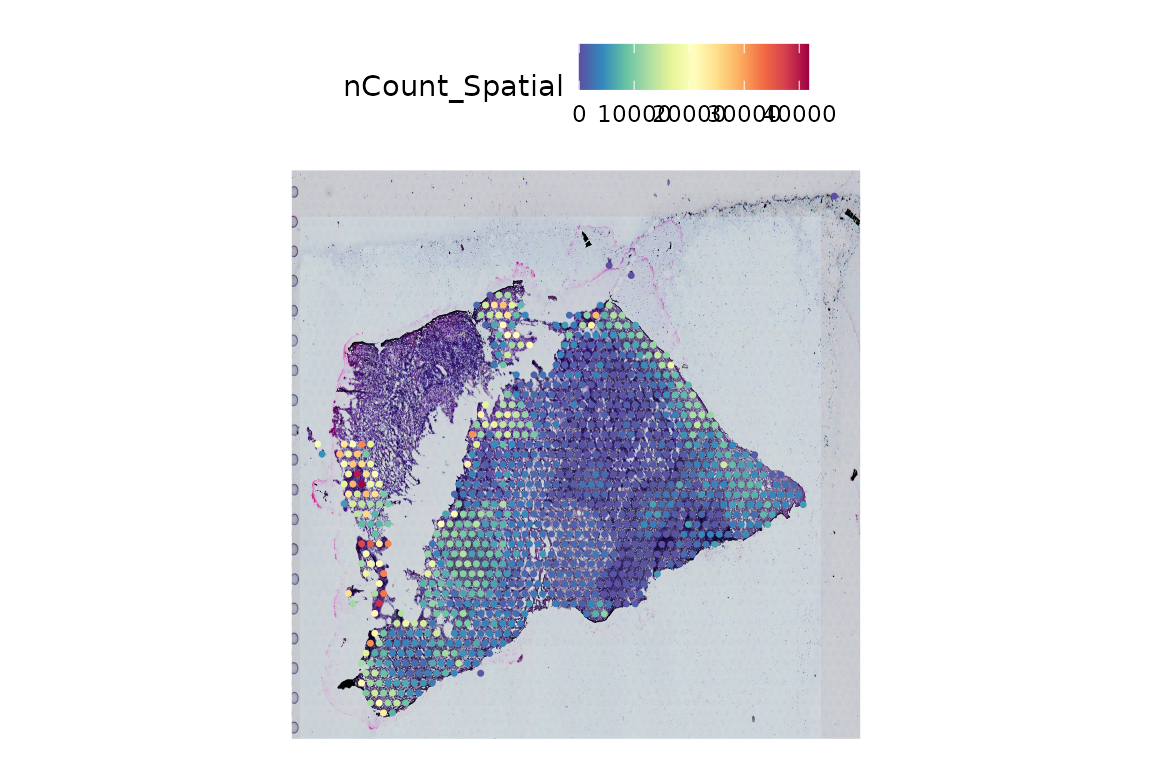
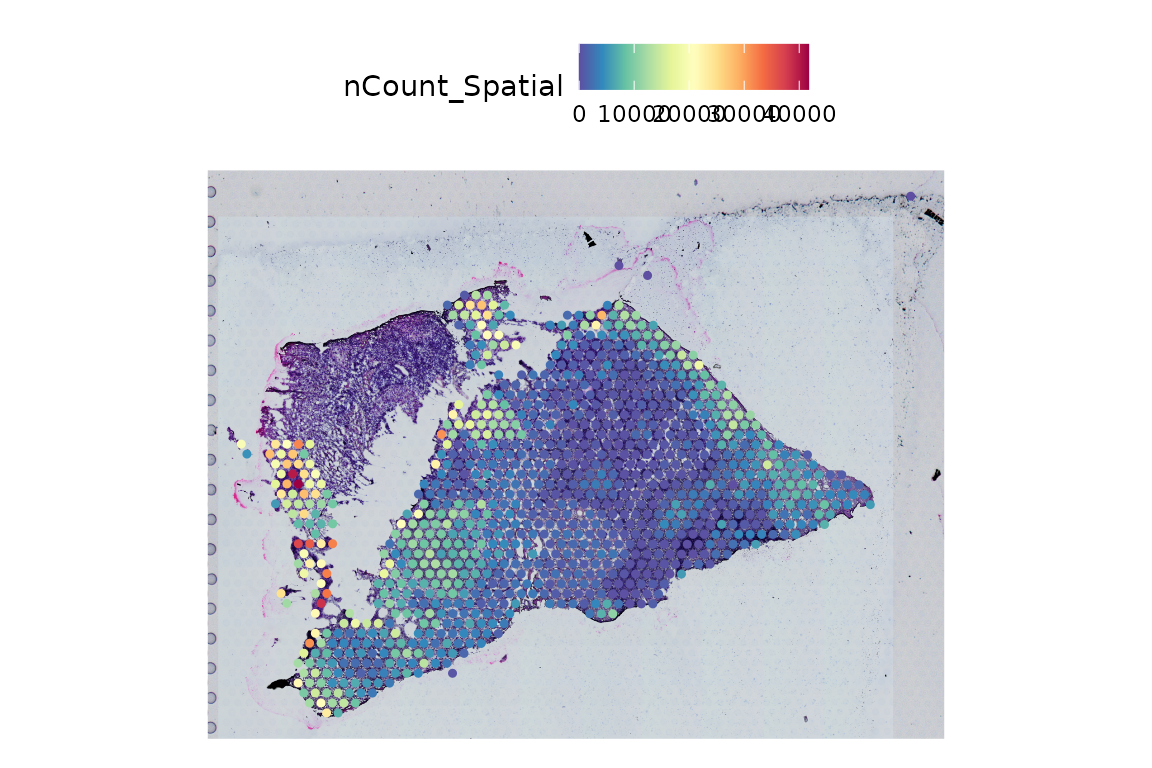
Deploying to gh-pages from @ Sanin-Lab/SpotGraphs@bdf4d20fe47ae60b62b09b6a429462d132622ddc 🚀

Changed region(s): [[0.1562, 0.2188, 0.8438, 0.9688], [0.3438, 0.3125, 0.4062, 0.3438]]

diff --git a/articles/SpotGraphs.html b/articles/SpotGraphs.html
@@ -72,7 +72,6 @@
     
 <div class="sourceCode" id="cb1"><pre class="downlit sourceCode r">
 <code class="sourceCode R"><span><span class="kw"><a href="https://rdrr.io/r/base/library.html" class="external-link">library</a></span><span class="op">(</span><span class="va"><a href="https://sanin-lab.github.io/SpotGraphs/">SpotGraphs</a></span><span class="op">)</span></span>
-<span><span class="kw"><a href="https://rdrr.io/r/base/library.html" class="external-link">library</a></span><span class="op">(</span><span class="va"><a href="https://github.com/helenalc/TENxVisiumData" class="external-link">TENxVisiumData</a></span><span class="op">)</span></span>
 <span><span class="kw"><a href="https://rdrr.io/r/base/library.html" class="external-link">library</a></span><span class="op">(</span><span class="va"><a href="https://dplyr.tidyverse.org" class="external-link">dplyr</a></span><span class="op">)</span></span>
 <span><span class="kw"><a href="https://rdrr.io/r/base/library.html" class="external-link">library</a></span><span class="op">(</span><span class="va"><a href="https://ggplot2.tidyverse.org" class="external-link">ggplot2</a></span><span class="op">)</span></span>
 <span><span class="kw"><a href="https://rdrr.io/r/base/library.html" class="external-link">library</a></span><span class="op">(</span><span class="va"><a href="https://sjmgarnier.github.io/viridis/" class="external-link">viridis</a></span><span class="op">)</span></span>
@@ -85,12 +84,25 @@ dataset from a squamous cell carcinoma patient, downloaded from
 GSE208253. The raw data from GEO is provided as a Seurat object in this
 package to use as an example.</p>
 <div class="sourceCode" id="cb2"><pre class="downlit sourceCode r">
-<code class="sourceCode R"><span><span class="fu"><a href="https://rdrr.io/r/base/class.html" class="external-link">class</a></span><span class="op">(</span><span class="va">scc_s1</span><span class="op">)</span></span>
+<code class="sourceCode R"><span><span class="va">scc_s1</span> <span class="op">=</span> <span class="fu">Seurat</span><span class="fu">::</span><span class="fu"><a href="https://satijalab.github.io/seurat-object/reference/UpdateSeuratObject.html" class="external-link">UpdateSeuratObject</a></span><span class="op">(</span><span class="va">scc_s1</span><span class="op">)</span></span>
+<span><span class="co">#&gt; Validating object structure</span></span>
+<span><span class="co">#&gt; Updating object slots</span></span>
+<span><span class="co">#&gt; Ensuring keys are in the proper structure</span></span>
+<span><span class="co">#&gt; Ensuring keys are in the proper structure</span></span>
+<span><span class="co">#&gt; Ensuring feature names don't have underscores or pipes</span></span>
+<span><span class="co">#&gt; Updating slots in Spatial</span></span>
+<span><span class="co">#&gt; Updating slots in slice1</span></span>
+<span><span class="co">#&gt; Warning: Not validating Centroids objects</span></span>
+<span><span class="co">#&gt; Updated Centroids object 'centroids' in FOV 'slice1'</span></span>
+<span><span class="co">#&gt; Updated boundaries in FOV 'slice1'</span></span>
+<span><span class="co">#&gt; Validating object structure for Assay5 'Spatial'</span></span>
+<span><span class="co">#&gt; Validating object structure for VisiumV2 'slice1'</span></span>
+<span><span class="co">#&gt; Object representation is consistent with the most current Seurat version</span></span>
+<span><span class="fu"><a href="https://rdrr.io/r/base/class.html" class="external-link">class</a></span><span class="op">(</span><span class="va">scc_s1</span><span class="op">)</span></span>
 <span><span class="co">#&gt; [1] "Seurat"</span></span>
 <span><span class="co">#&gt; attr(,"package")</span></span>
 <span><span class="co">#&gt; [1] "SeuratObject"</span></span>
 <span><span class="fu"><a href="https://rdrr.io/r/base/dim.html" class="external-link">dim</a></span><span class="op">(</span><span class="va">scc_s1</span><span class="op">)</span></span>
-<span><span class="co">#&gt; Loading required namespace: SeuratObject</span></span>
 <span><span class="co">#&gt; [1] 36601  1185</span></span></code></pre></div>
 </div>
 <div class="section level2">
@@ -115,18 +127,18 @@ the spots on our slide.</p>
 <span><span class="va">coord</span> <span class="op">=</span> <span class="va">coord</span><span class="op">[</span>,<span class="fu"><a href="https://rdrr.io/r/base/c.html" class="external-link">c</a></span><span class="op">(</span><span class="st">'x'</span>, <span class="st">'y'</span><span class="op">)</span><span class="op">]</span></span>
 <span><span class="fu"><a href="https://rdrr.io/r/utils/head.html" class="external-link">head</a></span><span class="op">(</span><span class="va">coord</span><span class="op">)</span></span>
 <span><span class="co">#&gt;                        x     y</span></span>
-<span><span class="co">#&gt; AAACACCAATAACTGC-1 16571  4809</span></span>
-<span><span class="co">#&gt; AAACAGGGTCTATATT-1 13546  3944</span></span>
-<span><span class="co">#&gt; AAACCGTTCGTCCAGG-1 14812  8142</span></span>
-<span><span class="co">#&gt; AAACGAGACGGTTGAT-1 10536 13505</span></span>
-<span><span class="co">#&gt; AAACTGCTGGCTCCAA-1 13053 11764</span></span>
-<span><span class="co">#&gt; AAAGACTGGGCGCTTT-1  9011  4240</span></span>
+<span><span class="co">#&gt; AAACACCAATAACTGC-1  4809 16571</span></span>
+<span><span class="co">#&gt; AAACAGGGTCTATATT-1  3944 13546</span></span>
+<span><span class="co">#&gt; AAACCGTTCGTCCAGG-1  8142 14812</span></span>
+<span><span class="co">#&gt; AAACGAGACGGTTGAT-1 13505 10536</span></span>
+<span><span class="co">#&gt; AAACTGCTGGCTCCAA-1 11764 13053</span></span>
+<span><span class="co">#&gt; AAAGACTGGGCGCTTT-1  4240  9011</span></span>
 <span></span>
 <span><span class="va">ig</span> <span class="op">=</span> <span class="fu"><a href="../reference/SpotGraph.html">SpotGraph</a></span><span class="op">(</span>coord <span class="op">=</span> <span class="va">coord</span><span class="op">)</span></span>
 <span><span class="va">ig</span></span>
-<span><span class="co">#&gt; IGRAPH e0991e5 UN-- 1185 3189 -- </span></span>
+<span><span class="co">#&gt; IGRAPH a774ec7 UN-- 1185 3189 -- </span></span>
 <span><span class="co">#&gt; + attr: name (v/c), coord_x (v/n), coord_y (v/n), is_boundary (v/l)</span></span>
-<span><span class="co">#&gt; + edges from e0991e5 (vertex names):</span></span>
+<span><span class="co">#&gt; + edges from a774ec7 (vertex names):</span></span>
 <span><span class="co">#&gt;  [1] AAACACCAATAACTGC-1--AGGCGGTTTGTCCCGC-1</span></span>
 <span><span class="co">#&gt;  [2] AAACACCAATAACTGC-1--CTCGTCGAGGGCTCAT-1</span></span>
 <span><span class="co">#&gt;  [3] AAACACCAATAACTGC-1--GAAACATAGGAAACAG-1</span></span>
@@ -154,14 +166,6 @@ in our plots.</p>
 <span>                           group.by <span class="op">=</span> <span class="st">'is_boundary'</span>, </span>
 <span>                           flip.axes <span class="op">=</span> <span class="cn">T</span>, </span>
 <span>                           pt.size <span class="op">=</span> <span class="fl">0.5</span><span class="op">)</span></span>
-<span><span class="co">#&gt; Warning: `aes_string()` was deprecated in ggplot2 3.0.0.</span></span>
-<span><span class="co">#&gt; <span style="color: #00BBBB;">ℹ</span> Please use tidy evaluation idioms with `aes()`.</span></span>
-<span><span class="co">#&gt; <span style="color: #00BBBB;">ℹ</span> See also `vignette("ggplot2-in-packages")` for more information.</span></span>
-<span><span class="co">#&gt; <span style="color: #00BBBB;">ℹ</span> The deprecated feature was likely used in the <span style="color: #0000BB;">SpotGraphs</span> package.</span></span>
-<span><span class="co">#&gt;   Please report the issue to the authors.</span></span>
-<span><span class="co">#&gt; <span style="color: #555555;">This warning is displayed once every 8 hours.</span></span></span>
-<span><span class="co">#&gt; <span style="color: #555555;">Call `lifecycle::last_lifecycle_warnings()` to see where this warning was</span></span></span>
-<span><span class="co">#&gt; <span style="color: #555555;">generated.</span></span></span>
 <span></span>
 <span><span class="fu">patchwork</span><span class="fu">::</span><span class="fu"><a href="https://patchwork.data-imaginist.com/reference/wrap_plots.html" class="external-link">wrap_plots</a></span><span class="op">(</span><span class="va">plt.ggnet</span>, <span class="va">plt.spg</span><span class="op">)</span></span></code></pre></div>
 <p><img src="SpotGraphs_files/figure-html/unnamed-chunk-4-1.png" class="r-plt" width="864"></p>

diff --git a/articles/NeighborhoodCenters.html b/articles/NeighborhoodCenters.html
@@ -72,6 +72,7 @@
     
 <div class="sourceCode" id="cb1"><pre class="downlit sourceCode r">
 <code class="sourceCode R"><span><span class="kw"><a href="https://rdrr.io/r/base/library.html" class="external-link">library</a></span><span class="op">(</span><span class="va"><a href="https://sanin-lab.github.io/SpotGraphs/">SpotGraphs</a></span><span class="op">)</span></span>
+<span><span class="kw"><a href="https://rdrr.io/r/base/library.html" class="external-link">library</a></span><span class="op">(</span><span class="va"><a href="https://satijalab.org/seurat" class="external-link">Seurat</a></span><span class="op">)</span></span>
 <span><span class="kw"><a href="https://rdrr.io/r/base/library.html" class="external-link">library</a></span><span class="op">(</span><span class="va"><a href="https://ggplot2.tidyverse.org" class="external-link">ggplot2</a></span><span class="op">)</span></span>
 <span><span class="kw"><a href="https://rdrr.io/r/base/library.html" class="external-link">library</a></span><span class="op">(</span><span class="va"><a href="https://dplyr.tidyverse.org" class="external-link">dplyr</a></span><span class="op">)</span></span>
 <span><span class="kw"><a href="https://rdrr.io/r/base/library.html" class="external-link">library</a></span><span class="op">(</span><span class="va"><a href="https://sjmgarnier.github.io/viridis/" class="external-link">viridis</a></span><span class="op">)</span></span>
@@ -91,12 +92,25 @@ its boundary.</p>
 <p>We will again use the 10X Visium dataset, downloaded from GSE208253,
 to demonstrate <code><a href="../reference/NeighborhoodCenters.html">NeighborhoodCenters()</a></code>.</p>
 <div class="sourceCode" id="cb2"><pre class="downlit sourceCode r">
-<code class="sourceCode R"><span><span class="fu"><a href="https://rdrr.io/r/base/class.html" class="external-link">class</a></span><span class="op">(</span><span class="va">scc_s1</span><span class="op">)</span></span>
+<code class="sourceCode R"><span><span class="va">scc_s1</span> <span class="op">=</span> <span class="fu"><a href="https://satijalab.github.io/seurat-object/reference/UpdateSeuratObject.html" class="external-link">UpdateSeuratObject</a></span><span class="op">(</span><span class="va">scc_s1</span><span class="op">)</span></span>
+<span><span class="co">#&gt; Validating object structure</span></span>
+<span><span class="co">#&gt; Updating object slots</span></span>
+<span><span class="co">#&gt; Ensuring keys are in the proper structure</span></span>
+<span><span class="co">#&gt; Ensuring keys are in the proper structure</span></span>
+<span><span class="co">#&gt; Ensuring feature names don't have underscores or pipes</span></span>
+<span><span class="co">#&gt; Updating slots in Spatial</span></span>
+<span><span class="co">#&gt; Updating slots in slice1</span></span>
+<span><span class="co">#&gt; Warning: Not validating Centroids objects</span></span>
+<span><span class="co">#&gt; Updated Centroids object 'centroids' in FOV 'slice1'</span></span>
+<span><span class="co">#&gt; Updated boundaries in FOV 'slice1'</span></span>
+<span><span class="co">#&gt; Validating object structure for Assay5 'Spatial'</span></span>
+<span><span class="co">#&gt; Validating object structure for VisiumV2 'slice1'</span></span>
+<span><span class="co">#&gt; Object representation is consistent with the most current Seurat version</span></span>
+<span><span class="fu"><a href="https://rdrr.io/r/base/class.html" class="external-link">class</a></span><span class="op">(</span><span class="va">scc_s1</span><span class="op">)</span></span>
 <span><span class="co">#&gt; [1] "Seurat"</span></span>
 <span><span class="co">#&gt; attr(,"package")</span></span>
 <span><span class="co">#&gt; [1] "SeuratObject"</span></span>
 <span><span class="fu"><a href="https://rdrr.io/r/base/dim.html" class="external-link">dim</a></span><span class="op">(</span><span class="va">scc_s1</span><span class="op">)</span></span>
-<span><span class="co">#&gt; Loading required namespace: SeuratObject</span></span>
 <span><span class="co">#&gt; [1] 36601  1185</span></span>
 <span></span>
 <span><span class="va">coord</span> <span class="op">=</span> <span class="fu">Seurat</span><span class="fu">::</span><span class="fu"><a href="https://satijalab.github.io/seurat-object/reference/GetTissueCoordinates.html" class="external-link">GetTissueCoordinates</a></span><span class="op">(</span><span class="va">scc_s1</span><span class="op">)</span></span>
@@ -149,14 +163,6 @@ where <code>is_neighborhood == T</code>, and 0 where
 <span>                        pt.size <span class="op">=</span> <span class="fl">0.5</span>, linewidth <span class="op">=</span> <span class="fl">0.1</span><span class="op">)</span> <span class="op">+</span></span>
 <span>  <span class="fu"><a href="https://sjmgarnier.github.io/viridis/reference/scale_viridis.html" class="external-link">scale_color_viridis</a></span><span class="op">(</span><span class="op">)</span> <span class="op">+</span></span>
 <span>  <span class="fu"><a href="https://ggplot2.tidyverse.org/reference/ggtheme.html" class="external-link">theme_void</a></span><span class="op">(</span><span class="op">)</span></span>
-<span><span class="co">#&gt; Warning: `aes_string()` was deprecated in ggplot2 3.0.0.</span></span>
-<span><span class="co">#&gt; <span style="color: #00BBBB;">ℹ</span> Please use tidy evaluation idioms with `aes()`.</span></span>
-<span><span class="co">#&gt; <span style="color: #00BBBB;">ℹ</span> See also `vignette("ggplot2-in-packages")` for more information.</span></span>
-<span><span class="co">#&gt; <span style="color: #00BBBB;">ℹ</span> The deprecated feature was likely used in the <span style="color: #0000BB;">SpotGraphs</span> package.</span></span>
-<span><span class="co">#&gt;   Please report the issue to the authors.</span></span>
-<span><span class="co">#&gt; <span style="color: #555555;">This warning is displayed once every 8 hours.</span></span></span>
-<span><span class="co">#&gt; <span style="color: #555555;">Call `lifecycle::last_lifecycle_warnings()` to see where this warning was</span></span></span>
-<span><span class="co">#&gt; <span style="color: #555555;">generated.</span></span></span>
 <span><span class="va">plt2</span> <span class="op">=</span> <span class="fu"><a href="../reference/SpatialPlotGraph.html">SpatialPlotGraph</a></span><span class="op">(</span><span class="va">ig</span>, group.by <span class="op">=</span> <span class="st">'roi_center'</span>,</span>
 <span>                        pt.size <span class="op">=</span> <span class="fl">0.5</span>, linewidth <span class="op">=</span> <span class="fl">0.1</span><span class="op">)</span> <span class="op">+</span></span>
 <span>  <span class="fu"><a href="https://ggplot2.tidyverse.org/reference/scale_manual.html" class="external-link">scale_color_manual</a></span><span class="op">(</span>values <span class="op">=</span> <span class="fu"><a href="https://rdrr.io/r/base/c.html" class="external-link">c</a></span><span class="op">(</span><span class="st">'grey'</span>, <span class="st">'red'</span><span class="op">)</span><span class="op">)</span> <span class="op">+</span></span>

diff --git a/articles/SpotGraphs.md b/articles/SpotGraphs.md
@@ -2,7 +2,6 @@
 
 ``` r
 library(SpotGraphs)
-library(TENxVisiumData)
 library(dplyr)
 library(ggplot2)
 library(viridis)
@@ -17,12 +16,25 @@ GSE208253. The raw data from GEO is provided as a Seurat object in this
 package to use as an example.
 
 ``` r
+scc_s1 = Seurat::UpdateSeuratObject(scc_s1)
+#> Validating object structure
+#> Updating object slots
+#> Ensuring keys are in the proper structure
+#> Ensuring keys are in the proper structure
+#> Ensuring feature names don't have underscores or pipes
+#> Updating slots in Spatial
+#> Updating slots in slice1
+#> Warning: Not validating Centroids objects
+#> Updated Centroids object 'centroids' in FOV 'slice1'
+#> Updated boundaries in FOV 'slice1'
+#> Validating object structure for Assay5 'Spatial'
+#> Validating object structure for VisiumV2 'slice1'
+#> Object representation is consistent with the most current Seurat version
 class(scc_s1)
 #> [1] "Seurat"
 #> attr(,"package")
 #> [1] "SeuratObject"
 dim(scc_s1)
-#> Loading required namespace: SeuratObject
 #> [1] 36601  1185
 ```
 
@@ -47,18 +59,18 @@ coord = Seurat::GetTissueCoordinates(scc_s1)
 coord = coord[,c('x', 'y')]
 head(coord)
 #>                        x     y
-#> AAACACCAATAACTGC-1 16571  4809
-#> AAACAGGGTCTATATT-1 13546  3944
-#> AAACCGTTCGTCCAGG-1 14812  8142
-#> AAACGAGACGGTTGAT-1 10536 13505
-#> AAACTGCTGGCTCCAA-1 13053 11764
-#> AAAGACTGGGCGCTTT-1  9011  4240
+#> AAACACCAATAACTGC-1  4809 16571
+#> AAACAGGGTCTATATT-1  3944 13546
+#> AAACCGTTCGTCCAGG-1  8142 14812
+#> AAACGAGACGGTTGAT-1 13505 10536
+#> AAACTGCTGGCTCCAA-1 11764 13053
+#> AAAGACTGGGCGCTTT-1  4240  9011
 
 ig = SpotGraph(coord = coord)
 ig
-#> IGRAPH e0991e5 UN-- 1185 3189 -- 
+#> IGRAPH a774ec7 UN-- 1185 3189 -- 
 #> + attr: name (v/c), coord_x (v/n), coord_y (v/n), is_boundary (v/l)
-#> + edges from e0991e5 (vertex names):
+#> + edges from a774ec7 (vertex names):
 #>  [1] AAACACCAATAACTGC-1--AGGCGGTTTGTCCCGC-1
 #>  [2] AAACACCAATAACTGC-1--CTCGTCGAGGGCTCAT-1
 #>  [3] AAACACCAATAACTGC-1--GAAACATAGGAAACAG-1
@@ -89,14 +101,6 @@ plt.spg = SpatialPlotGraph(igraph_object = ig,
                            group.by = 'is_boundary', 
                            flip.axes = T, 
                            pt.size = 0.5)
-#> Warning: `aes_string()` was deprecated in ggplot2 3.0.0.
-#> ℹ Please use tidy evaluation idioms with `aes()`.
-#> ℹ See also `vignette("ggplot2-in-packages")` for more information.
-#> ℹ The deprecated feature was likely used in the SpotGraphs package.
-#>   Please report the issue to the authors.
-#> This warning is displayed once every 8 hours.
-#> Call `lifecycle::last_lifecycle_warnings()` to see where this warning was
-#> generated.
 
 patchwork::wrap_plots(plt.ggnet, plt.spg)
 ```

diff --git a/articles/NeighborhoodCenters.md b/articles/NeighborhoodCenters.md
@@ -2,6 +2,7 @@
 
 ``` r
 library(SpotGraphs)
+library(Seurat)
 library(ggplot2)
 library(dplyr)
 library(viridis)
@@ -24,12 +25,25 @@ demonstrate
 [`NeighborhoodCenters()`](https://sanin-lab.github.io/SpotGraphs/reference/NeighborhoodCenters.md).
 
 ``` r
+scc_s1 = UpdateSeuratObject(scc_s1)
+#> Validating object structure
+#> Updating object slots
+#> Ensuring keys are in the proper structure
+#> Ensuring keys are in the proper structure
+#> Ensuring feature names don't have underscores or pipes
+#> Updating slots in Spatial
+#> Updating slots in slice1
+#> Warning: Not validating Centroids objects
+#> Updated Centroids object 'centroids' in FOV 'slice1'
+#> Updated boundaries in FOV 'slice1'
+#> Validating object structure for Assay5 'Spatial'
+#> Validating object structure for VisiumV2 'slice1'
+#> Object representation is consistent with the most current Seurat version
 class(scc_s1)
 #> [1] "Seurat"
 #> attr(,"package")
 #> [1] "SeuratObject"
 dim(scc_s1)
-#> Loading required namespace: SeuratObject
 #> [1] 36601  1185
 
 coord = Seurat::GetTissueCoordinates(scc_s1)
@@ -87,14 +101,6 @@ plt1 = SpatialPlotGraph(ig, group.by = 'centr_eigen',
                         pt.size = 0.5, linewidth = 0.1) +
   scale_color_viridis() +
   theme_void()
-#> Warning: `aes_string()` was deprecated in ggplot2 3.0.0.
-#> ℹ Please use tidy evaluation idioms with `aes()`.
-#> ℹ See also `vignette("ggplot2-in-packages")` for more information.
-#> ℹ The deprecated feature was likely used in the SpotGraphs package.
-#>   Please report the issue to the authors.
-#> This warning is displayed once every 8 hours.
-#> Call `lifecycle::last_lifecycle_warnings()` to see where this warning was
-#> generated.
 plt2 = SpatialPlotGraph(ig, group.by = 'roi_center',
                         pt.size = 0.5, linewidth = 0.1) +
   scale_color_manual(values = c('grey', 'red')) +
